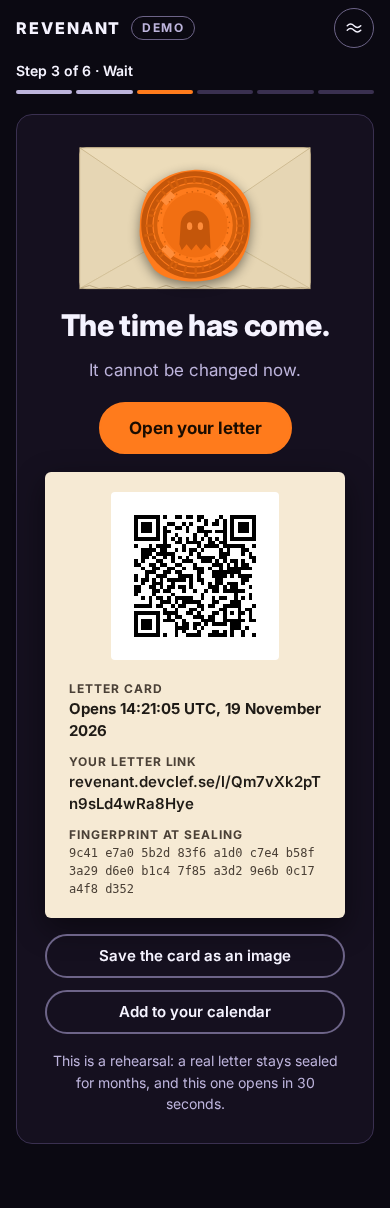
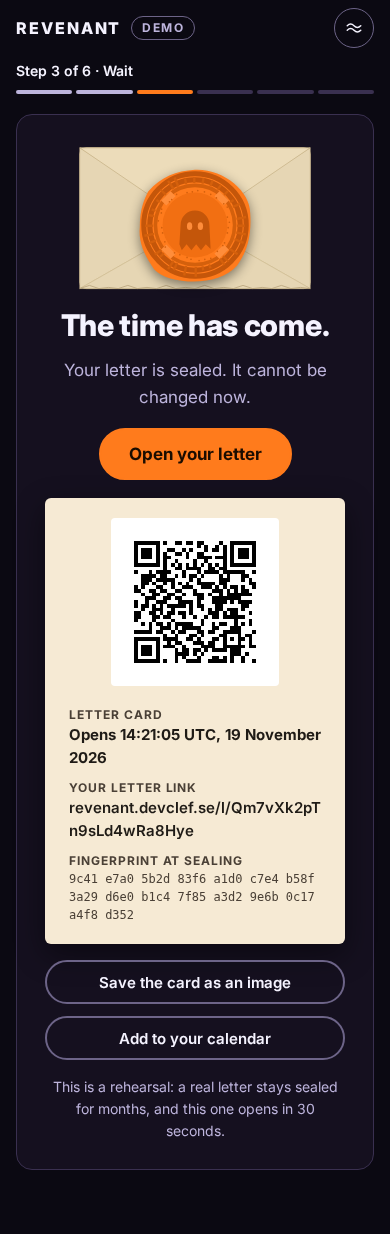
Design 15: wait-ready copy

diff --git a/docs/design/15-flow/wait-ready.html b/docs/design/15-flow/wait-ready.html
@@ -17,7 +17,7 @@
 
 </header>
 <main class="main " id="main"><ol class="track v6" aria-label="Your progress"><li class="done"><span class="n">✓</span>Write</li><li class="done"><span class="n">✓</span>Press the seal</li><li class="now" aria-current="step"><span class="n">3</span>Wait</li><li class=""><span class="n">4</span>Testify</li><li class=""><span class="n">5</span>Break the seal</li><li class=""><span class="n">6</span>Receipts</li></ol><div class="track-phone v6"><div class="line">Step 3 of 6 · Wait</div><div class="bars"><i class="done"></i><i class="done"></i><i class="now"></i><i class=""></i><i class=""></i><i class=""></i></div></div><section class="panel stack" style="padding:28px"><div style="width:min(100%,240px);margin:0 auto"><div class="envbox sealgroup"><svg viewBox="0 0 300 188" aria-hidden="true" focusable="false" preserveAspectRatio="xMidYMid meet"><rect x="6" y="6" width="288" height="176" rx="8" fill="#f1e4c8" stroke="#cdb98f"/><path d="M6 6 L150 100 L6 182 Z" fill="#e6d6b4" stroke="#cdb98f" stroke-width=".8"/><path d="M294 6 L150 100 L294 182 Z" fill="#e6d6b4" stroke="#cdb98f" stroke-width=".8"/><path d="M6 182 L150 100 L294 182 Z" fill="#e6d6b4" stroke="#cdb98f" stroke-width=".8"/><path d="M6 6 L294 6 L150 104 Z" fill="#ecdcba" stroke="#c9b58a" stroke-width="1"/><path d="M6 182 L18.00 178.00 L30.00 182 L42.00 180.50 L54.00 182 L66.00 178.00 L78.00 182 L90.00 180.50 L102.00 182 L114.00 178.00 L126.00 182 L138.00 180.50 L150.00 182 L162.00 178.00 L174.00 182 L186.00 180.50 L198.00 182 L210.00 178.00 L222.00 182 L234.00 180.50 L246.00 182 L258.00 178.00 L270.00 182 L282.00 180.50 L294.00 182" fill="none" stroke="#b8a27a" stroke-width="1"/></svg><span class="wax" style="pointer-events:none"><svg viewBox="0 0 100 100" aria-hidden="true" focusable="false"><use href="#seal-live"/></svg></span></div></div>
-<div class="center stack"><h1 class="h1">The time has come.</h1><p class="lede">It cannot be changed now.</p>
+<div class="center stack"><h1 class="h1">The time has come.</h1><p class="lede">Your letter is sealed. It cannot be changed now.</p>
 
 <div class="row c" style="min-height:56px;align-items:center"><a class="btn " href="unlock.html">Open your letter</a></div></div>
 <div class="paper lcard"><div class="qr"><svg xmlns="http://www.w3.org/2000/svg" viewBox="0 0 41 41" width="41" height="41" shape-rendering="crispEdges" role="img"><path fill="#000" d="M4 4h7v1h-7zM12 4h1v1h-1zM15 4h2v1h-2zM18 4h2v1h-2zM21 4h2v1h-2zM27 4h1v1h-1zM30 4h7v1h-7zM4 5h1v1h-1zM10 5h1v1h-1zM21 5h1v1h-1zM23 5h1v1h-1zM26 5h1v1h-1zM28 5h1v1h-1zM30 5h1v1h-1zM36 5h1v1h-1zM4 6h1v1h-1zM6 6h3v1h-3zM10 6h1v1h-1zM13 6h2v1h-2zM17 6h1v1h-1zM19 6h1v1h-1zM23 6h1v1h-1zM25 6h2v1h-2zM28 6h1v1h-1zM30 6h1v1h-1zM32 6h3v1h-3zM36 6h1v1h-1zM4 7h1v1h-1zM6 7h3v1h-3zM10 7h1v1h-1zM12 7h1v1h-1zM15 7h2v1h-2zM18 7h1v1h-1zM21 7h2v1h-2zM28 7h1v1h-1zM30 7h1v1h-1zM32 7h3v1h-3zM36 7h1v1h-1zM4 8h1v1h-1zM6 8h3v1h-3zM10 8h1v1h-1zM12 8h2v1h-2zM18 8h1v1h-1zM21 8h4v1h-4zM26 8h3v1h-3zM30 8h1v1h-1zM32 8h3v1h-3zM36 8h1v1h-1zM4 9h1v1h-1zM10 9h1v1h-1zM12 9h1v1h-1zM15 9h1v1h-1zM20 9h1v1h-1zM23 9h1v1h-1zM28 9h1v1h-1zM30 9h1v1h-1zM36 9h1v1h-1zM4 10h7v1h-7zM12 10h1v1h-1zM14 10h1v1h-1zM16 10h1v1h-1zM18 10h1v1h-1zM20 10h1v1h-1zM22 10h1v1h-1zM24 10h1v1h-1zM26 10h1v1h-1zM28 10h1v1h-1zM30 10h7v1h-7zM12 11h1v1h-1zM15 11h2v1h-2zM18 11h4v1h-4zM24 11h2v1h-2zM27 11h2v1h-2zM4 12h1v1h-1zM8 12h1v1h-1zM10 12h4v1h-4zM17 12h1v1h-1zM21 12h1v1h-1zM23 12h4v1h-4zM28 12h6v1h-6zM36 12h1v1h-1zM6 13h4v1h-4zM11 13h2v1h-2zM15 13h1v1h-1zM17 13h1v1h-1zM19 13h2v1h-2zM22 13h1v1h-1zM27 13h1v1h-1zM29 13h1v1h-1zM33 13h2v1h-2zM6 14h3v1h-3zM10 14h5v1h-5zM19 14h1v1h-1zM21 14h1v1h-1zM27 14h3v1h-3zM33 14h1v1h-1zM35 14h1v1h-1zM6 15h2v1h-2zM9 15h1v1h-1zM12 15h1v1h-1zM14 15h1v1h-1zM16 15h1v1h-1zM18 15h1v1h-1zM21 15h5v1h-5zM27 15h2v1h-2zM35 15h2v1h-2zM4 16h1v1h-1zM6 16h1v1h-1zM10 16h2v1h-2zM14 16h1v1h-1zM17 16h3v1h-3zM22 16h3v1h-3zM26 16h1v1h-1zM28 16h1v1h-1zM30 16h2v1h-2zM33 16h1v1h-1zM36 16h1v1h-1zM4 17h2v1h-2zM8 17h2v1h-2zM11 17h2v1h-2zM15 17h2v1h-2zM20 17h1v1h-1zM25 17h3v1h-3zM29 17h1v1h-1zM31 17h1v1h-1zM33 17h2v1h-2zM6 18h1v1h-1zM9 18h2v1h-2zM13 18h2v1h-2zM17 18h1v1h-1zM20 18h3v1h-3zM24 18h1v1h-1zM27 18h1v1h-1zM29 18h7v1h-7zM7 19h3v1h-3zM12 19h2v1h-2zM15 19h2v1h-2zM21 19h2v1h-2zM25 19h8v1h-8zM4 20h1v1h-1zM7 20h1v1h-1zM10 20h3v1h-3zM16 20h4v1h-4zM21 20h1v1h-1zM25 20h4v1h-4zM30 20h1v1h-1zM32 20h4v1h-4zM4 21h1v1h-1zM6 21h2v1h-2zM9 21h1v1h-1zM11 21h1v1h-1zM13 21h5v1h-5zM19 21h1v1h-1zM21 21h2v1h-2zM26 21h2v1h-2zM33 21h2v1h-2zM6 22h1v1h-1zM9 22h3v1h-3zM14 22h1v1h-1zM19 22h1v1h-1zM22 22h1v1h-1zM24 22h1v1h-1zM26 22h2v1h-2zM29 22h3v1h-3zM33 22h1v1h-1zM4 23h2v1h-2zM8 23h2v1h-2zM11 23h1v1h-1zM13 23h2v1h-2zM16 23h2v1h-2zM19 23h1v1h-1zM24 23h3v1h-3zM28 23h1v1h-1zM30 23h2v1h-2zM35 23h1v1h-1zM4 24h2v1h-2zM9 24h2v1h-2zM12 24h2v1h-2zM17 24h1v1h-1zM20 24h1v1h-1zM23 24h1v1h-1zM25 24h2v1h-2zM28 24h6v1h-6zM4 25h1v1h-1zM9 25h1v1h-1zM14 25h1v1h-1zM22 25h1v1h-1zM31 25h1v1h-1zM35 25h1v1h-1zM6 26h1v1h-1zM8 26h1v1h-1zM10 26h2v1h-2zM13 26h1v1h-1zM15 26h5v1h-5zM22 26h1v1h-1zM25 26h1v1h-1zM27 26h2v1h-2zM31 26h1v1h-1zM33 26h1v1h-1zM35 26h1v1h-1zM8 27h1v1h-1zM11 27h3v1h-3zM15 27h1v1h-1zM17 27h5v1h-5zM25 27h2v1h-2zM30 27h3v1h-3zM4 28h5v1h-5zM10 28h2v1h-2zM14 28h1v1h-1zM16 28h2v1h-2zM21 28h2v1h-2zM24 28h2v1h-2zM28 28h5v1h-5zM36 28h1v1h-1zM12 29h1v1h-1zM15 29h1v1h-1zM19 29h2v1h-2zM22 29h1v1h-1zM27 29h2v1h-2zM32 29h1v1h-1zM34 29h2v1h-2zM4 30h7v1h-7zM12 30h4v1h-4zM18 30h2v1h-2zM21 30h1v1h-1zM25 30h2v1h-2zM28 30h1v1h-1zM30 30h1v1h-1zM32 30h2v1h-2zM35 30h1v1h-1zM4 31h1v1h-1zM10 31h1v1h-1zM13 31h1v1h-1zM15 31h2v1h-2zM20 31h3v1h-3zM24 31h2v1h-2zM28 31h1v1h-1zM32 31h1v1h-1zM35 31h1v1h-1zM4 32h1v1h-1zM6 32h3v1h-3zM10 32h1v1h-1zM12 32h3v1h-3zM17 32h1v1h-1zM22 32h4v1h-4zM28 32h6v1h-6zM35 32h2v1h-2zM4 33h1v1h-1zM6 33h3v1h-3zM10 33h1v1h-1zM15 33h1v1h-1zM17 33h2v1h-2zM20 33h2v1h-2zM23 33h1v1h-1zM25 33h4v1h-4zM30 33h3v1h-3zM4 34h1v1h-1zM6 34h3v1h-3zM10 34h1v1h-1zM15 34h4v1h-4zM20 34h1v1h-1zM22 34h1v1h-1zM30 34h3v1h-3zM34 34h1v1h-1zM4 35h1v1h-1zM10 35h1v1h-1zM15 35h1v1h-1zM17 35h1v1h-1zM21 35h1v1h-1zM25 35h2v1h-2zM28 35h1v1h-1zM30 35h1v1h-1zM33 35h1v1h-1zM4 36h7v1h-7zM12 36h1v1h-1zM15 36h1v1h-1zM18 36h4v1h-4zM24 36h5v1h-5zM30 36h1v1h-1zM33 36h1v1h-1zM36 36h1v1h-1z"/></svg></div><div class="meta"><span class="k">Letter card</span><b>Opens 14:21:05 UTC, 19 November 2026</b>

diff --git a/docs/design/15-flow/README.md b/docs/design/15-flow/README.md
@@ -686,7 +686,7 @@ Strings marked **new or changed** are not found verbatim in today's source or co
 <details><summary>Every string on this screen</summary>
 
 - "The time has come."
-- "It cannot be changed now."
+- **new or changed** "Your letter is sealed. It cannot be changed now."
 - **new or changed** "Open your letter"
 - "Letter card"
 - **new or changed** "Opens 14:21:05 UTC, 19 November 2026"
